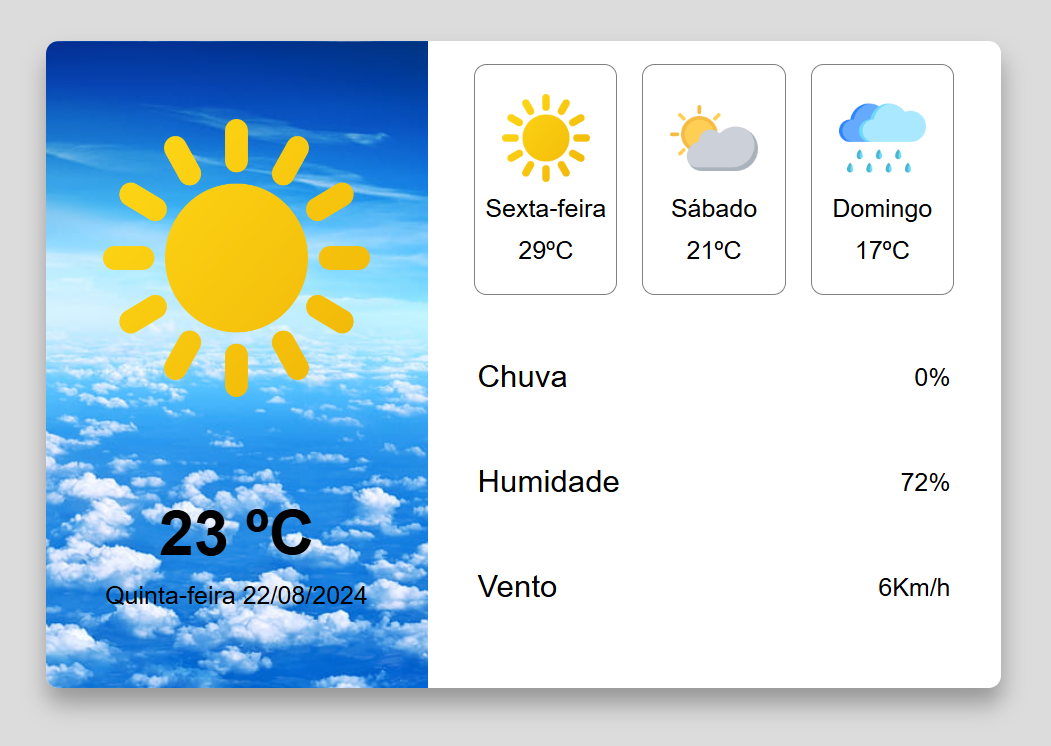
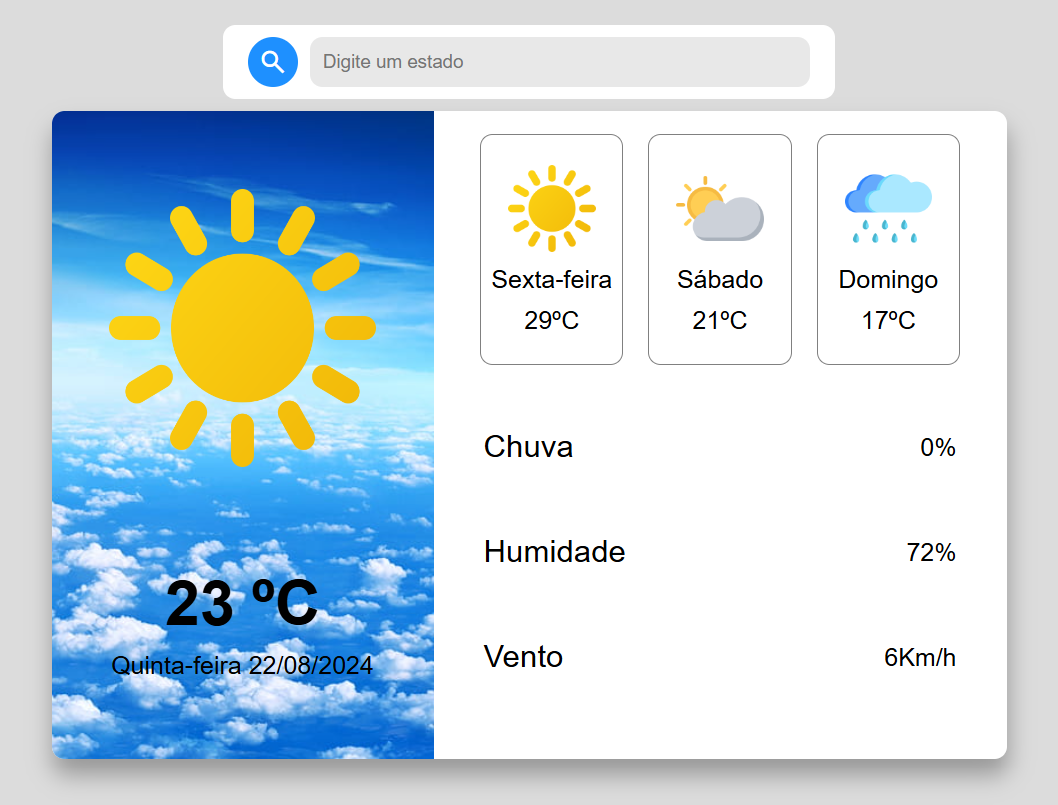
projeto_10_atualizado

diff --git a/Designer_Clima_App/style.css b/Designer_Clima_App/style.css
@@ -11,7 +11,45 @@ body{
     display: flex;
     align-items: center;
     justify-content: center;
+    flex-direction: column;
     background-color: gainsboro;
+}
+
+/*--------Pesquisa--------*/
+.pesquisa{
+    width: 32%;
+    height: 8vh;
+    display: flex;
+    align-items: center;
+    justify-content: center;
+    background-color: white;
+    margin-bottom: 10px;
+    border-radius: 10px;
+    gap: 10px;
+}
+
+.pesquisa input{
+    width: 400px;
+    height: 40px;
+    border: none;
+    outline: none;
+    border-radius: 10px;
+    background-color: rgb(232, 232, 232);
+    padding: 0 10px;
+    color: black;
+    font-size: 15px;
+}
+
+.pesquisa span{
+    width: 40px;
+    height: 40px;
+    display: flex;
+    align-items: center;
+    justify-content: center;
+    color: white;
+    cursor: pointer;
+    border-radius: 50px;
+    background-color: dodgerblue;
 }
 
 /*--------Clima--------*/

diff --git a/Designer_Clima_App/index.html b/Designer_Clima_App/index.html
@@ -3,10 +3,15 @@
 <head>
     <meta charset="UTF-8">
     <meta name="viewport" content="width=device-width, initial-scale=1.0">
+    <link rel="stylesheet" href="https://fonts.googleapis.com/css2?family=Material+Symbols+Outlined:opsz,wght,FILL,GRAD@24,400,0,0"/>
     <link rel="stylesheet" href="style.css">
     <title>Clima APP - Designer</title>
 </head>
 <body>
+    <div class="pesquisa">
+        <span class="material-symbols-outlined">search</span>
+        <input type="text" placeholder="Digite um estado">
+    </div>
     <div class="clima">
         <div class="tempo">
             <img src="./Img/sol.png" alt="Icone_de_sol">
